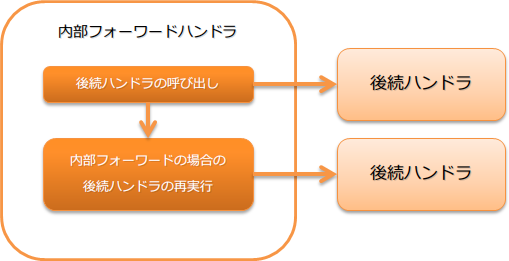
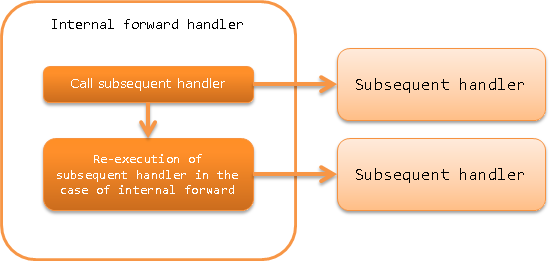
内部フォーワードハンドラページを英語化

diff --git a/en/application_framework/application_framework/handlers/web/forwarding_handler.rst b/en/application_framework/application_framework/handlers/web/forwarding_handler.rst
@@ -1,25 +1,25 @@
 .. _forwarding_handler:
 
-内部フォーワードハンドラ
+Internal Forward Handler
 ==================================================
-このハンドラは、後続ハンドラからのレスポンス中のコンテンツが、内部フォーワードを示している場合に、指定されたリクエストパスで後続ハンドラを再実行する。
+This handler re-executes the subsequent handler with the specified request path when the content in the response from the subsequent handler indicates an internal forward.
 
-内部フォーワードは、遷移先の画面が単純な画面表示ではなく、チェックボックスやドロップダウンリストなどの選択肢をサーバサイドで取得する場合に使用する。
-例えば、入力チェックでエラーとなった際に単純に入力画面を再表示するだけでなく、入力項目の選択肢をサーバサイドで取得する場合が該当する。詳細は、 :ref:`on_error-forward` を参照。
+Internal forward is used when the transition destination screen is not a simple screen display and options such as check boxes and drop-down lists are acquired from the server.
+For example, the input screen is not only redisplayed when an error occurs during input check, but also options for the input item is acquired from the server. For details, see :ref:`on_error-forward`.
 
-本ハンドラでは、以下の処理を行う。
+This handler performs the following processes.
 
-* 内部フォーワード時の後続ハンドラの再実行
+* Re-execution of subsequent handler during internal forward
 
-処理の流れは以下のとおり。
+The process flow is as follows.
 
 .. image:: ../images/ForwardingHandler/flow.png
 
-ハンドラクラス名
+Handler class name
 --------------------------------------------------
 * :java:extdoc:`nablarch.fw.web.handler.ForwardingHandler`
 
-モジュール一覧
+Module list
 --------------------------------------------------
 .. code-block:: xml
 
@@ -28,62 +28,62 @@
     <artifactId>nablarch-fw-web</artifactId>
   </dependency>
 
-制約
+Constraints
 --------------------------------------------------
-:ref:`session_store_handler` より後ろに配置すること
-  :ref:`session_store_handler` より後ろに配置すべき理由は、
-  :ref:`session_store_handler-error_forward_path` を参照
+Place this handler after the :ref:`session_store_handler`
+  See :ref:`session_store_handler-error_forward_path` for
+  why it should be placed after :ref:`session_store_handler`
 
 
-内部フォーワードを示すレスポンスを返却する
---------------------------------------------------
-業務アクションなどで内部フォーワードを示すレスポンスを返却する場合には、
-レスポンスが示すコンテンツパスを ``forward://`` から開始する。
+Returns the response that indicates internal forward
+---------------------------------------------------------------------------
+When a response indicating an internal forward in a business action is returned,
+start the content path indicated by the response with ``forward://``.
 
-以下に例を示す。
+An example is shown below.
 
 .. code-block:: java
 
     public HttpResponse sample(HttpRequest request, ExecutionContext context) {
-      // 業務処理
+      // Business process
 
-      // 同一業務アクションのinitializeに内部フォーワード
+      // Internal forward to initialize the same business action
       return new HttpResponse("forward://initialize");
     }
 
 .. tip::
 
-  ステータスコードはフォーワード時とフォーワード後を比較し、大きい値をレスポンス時のステータスコードとする。
+  For the status code, compare the during and after forward codes, and use the larger value as the response status code.
 
-  以下に例を示す。
+  An example is shown below.
 
-  * フォーワード時が **200** で、フォーワード後が **500** の場合は、クライアントには **500** を返却する。
-  * フォーワード時が **400** で、フォーワード後が **200** の場合は、クライアントには **400** を返却する。
-
-
-内部フォーワードに指定するパスのルール
---------------------------------------------------
-内部フォーワードで指定するフォーワード先のパスには、相対パスと絶対パスの指定が出来る。
-
-相対パス
-  現在のリクエストURIを起点としたパスになる。
-
-絶対パス
-  サーブレットコンテキスト名を起点としたパスになる。
-
-  絶対パスの場合には、指定するパスを ``/`` から開始する。
+  * If during forward is **200** and after forward is **500**, returns **500** to client.
+  * If during forward is **400** and after forward is **200**, returns **400** to client.
 
 
-以下に例を示す。
+Rules for the paths specified for internal forwards
+---------------------------------------------------------------------------
+Relative and absolute paths can be specified for the forward destination path specified by the internal forward.
 
-現在のリクエストURIが ``action/users/save`` の場合、下記の相対パスと絶対パスが示す内部フォーワード先は同一となる。
+Relative path
+  Path starting from the current request URI.
+
+Absolute path
+  Path starting from the servlet context name.
+
+  For absolute paths, start the path to be specified with ``/``.
+
+
+An example is shown below.
+
+If the current request URI is ``action/users/save``, the internal forward destination indicated by the relative and absolute paths below is the same.
 
 .. code-block:: java
 
-  // 相対パス
+  // Relative path
   new HttpResponse("forward://initialize");
 
-  // 絶対パス
+  // Absolute path
   new HttpResponse("forward:///action/users/initialize");
 
   
